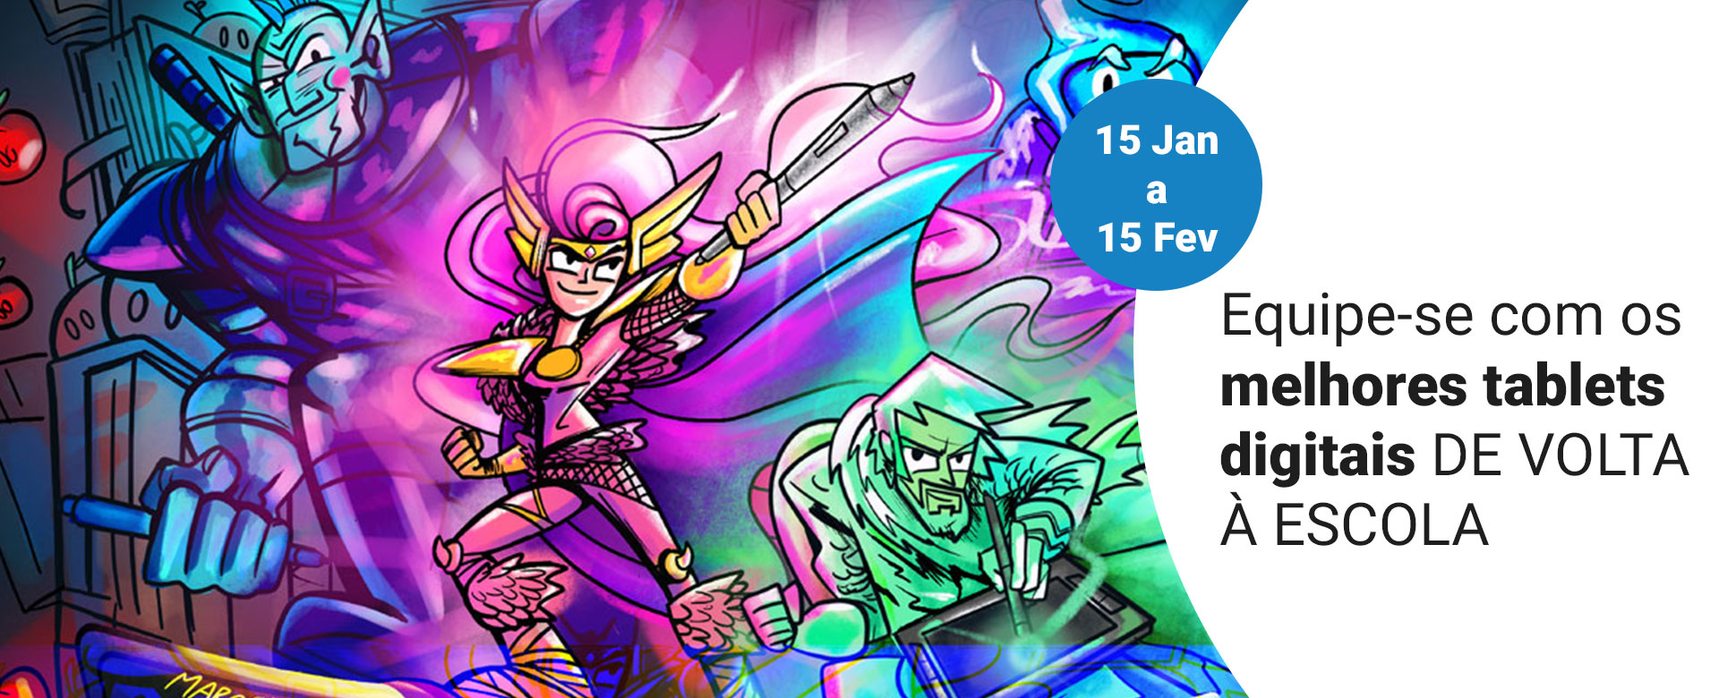
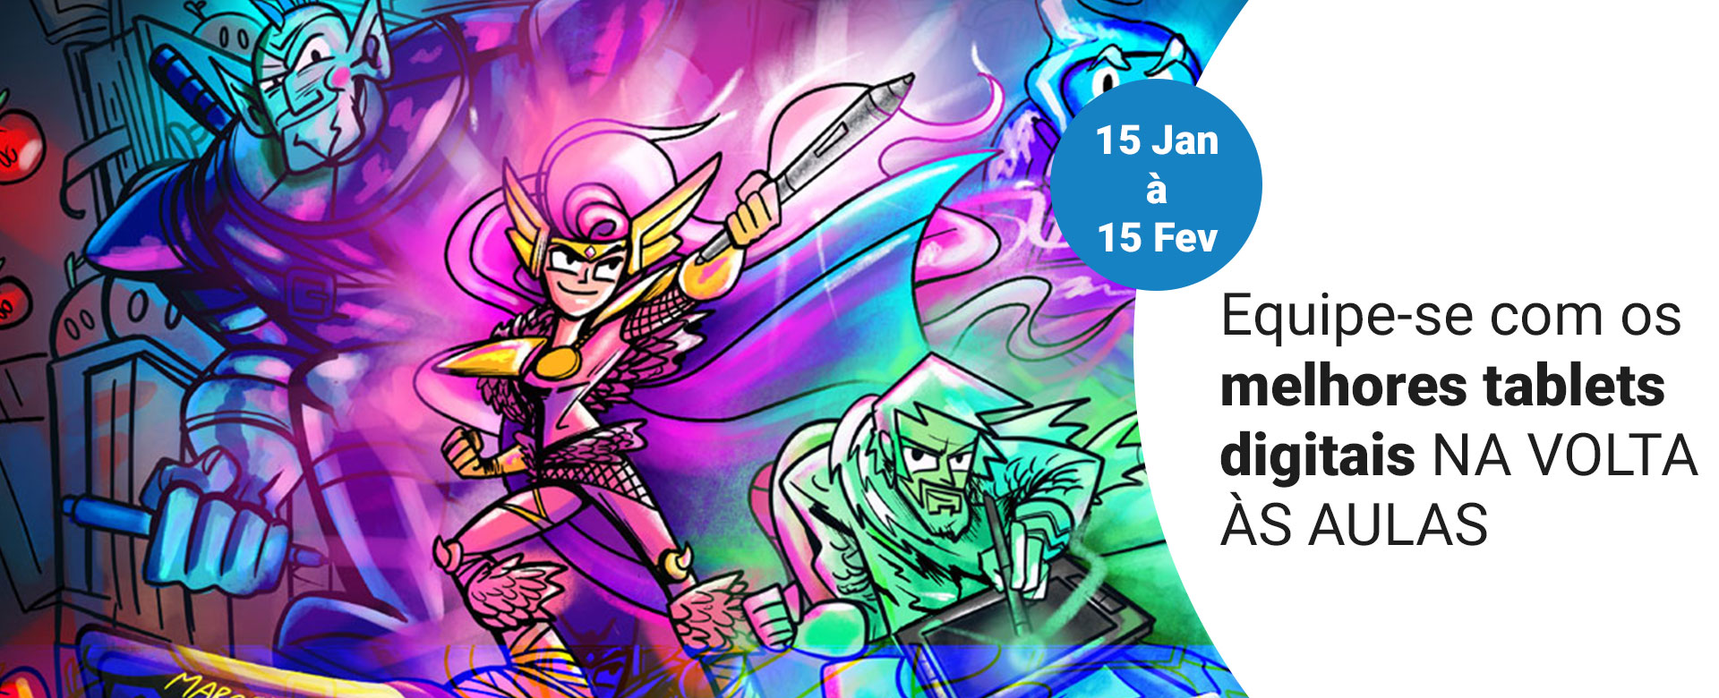
Cambio de tienda colombia
Correciones de lenguaje brasil y videos ajustados

Changed region(s): [[0.7188, 0.7077, 0.875, 0.8], [0.8125, 0.6154, 1.0, 0.6769]]

diff --git a/brasil-back-to-school.html b/brasil-back-to-school.html
@@ -285,7 +285,7 @@
                                             <img src="img/wacom-intuos-pro.png" style="max-width: 100%;" />
                                             <h3></h3>
                                             <h3>
-                                            Projetada para maximizar os recursos da incrível Wacom Pro Pen 2. Com recursos de conectividade Bluetooth integrados e um novo design elegante, se configura com facilidade. Ele permite que você ganhe precisão e controle, agilize o seu fluxo de trabalho e aproveite todas as capacidades do seu software criativo favorito graças às inovações integradas no novo Intuos Pro.
+                                            Projetada para maximizar os recursos da incrível Wacom Pro Pen 2. Com recursos de conectividade Bluetooth integrados e um novo design elegante, e fácil de configurar. Ela permite que você ganhe precisão e controle, agilize o seu fluxo de trabalho e aproveite todas as capacidades do seu software criativo favorito graças às inovações integradas na nova Intuos Pro.
                                             </h3>
                                             <h3><a class="link" href="https://www.wacom.com/es-es/products/pen-tablets/wacom-intuos-pro" target="_blank">Explore Wacom Intuos Pro <img src="img/arrow-n.png"></a></h3>
                                             <span style="font-size:26px;">
@@ -341,7 +341,7 @@
                                             <img src="img/wacom-cintiq-pro.png" style="max-width: 100%;" />
                                             <h3></h3>
                                             <h3>
-                                            Crie diretamente na tela com a experiência mais natural que se assemelha a de um lápis. Projetada para artistas profissionais e designers que necessitam uma conexão direta e intuitiva da caneta para a tela. Independente se você trabalha no Mac ou PC, a Wacom Cintiq Pro oferece a mais avançada experiência interativa via monitor.
+                                            Crie diretamente na tela com a experiência mais natural que se assemelha a de um lápis. Projetada para artistas profissionais e designers que necessitam de uma conexão direta e intuitiva da caneta para a tela. Independente se você trabalha no Mac ou PC, a Wacom Cintiq Pro oferece a mais avançada experiência interativa via monitor.
                                             </h3>
                                             <h3><a class="link" href="https://www.wacom.com/es-es/products/pen-tablets/wacom-intuos" target="_blank">Explore Cintiq Pro <img src="img/arrow-n.png"></a></h3>
                                             <span style="font-size:26px;">
@@ -379,7 +379,7 @@
                                         </div>
                                         <div class="col-lg-5 col-sm-8 col-xs-12 left mb-sm" style="margin-top: 30px;">
                                             <div class="col-lg-3 col-md-3 col-sm-12 col-lg-offset-6 col-md-offset-6 col-sm-offset-3" style="width: 120px; height: 120px; background-color: #0088cc; border-radius: 100%; padding: 20px; position: absolute; z-index:5;">
-                                                <h6 style="color:white; font-size: 17px; text-align: center; margin:auto; position: relative; padding-top: 15px;">Hasta -20% de descuento</h6>
+                                                <h6 style="color:white; font-size: 17px; text-align: center; margin:auto; position: relative; padding-top: 15px;">Descontos de até 20%</h6>
                                             </div>
                                             <img src="img/products/wacom-one.png" style="max-width: 95%;"/>
                                         </div>
@@ -402,13 +402,15 @@
                             <section id="videos">
                                 <div class="container-full" style="background-color: white;">
                                     <div class="row">
-                                        <div class="col-lg-12 col-md-12 col-sm-12 col-12">
+                                        <div class="col-lg-2 col-md-2"></div>
+                                        <div class="col-lg-8 col-md-8 col-sm-12 col-12">
                                             <div class="embed-responsive embed-responsive-16by9">
-                                                <iframe class="embed-responsive-item"  src="https://www.youtube.com/embed/KghanqRVFXA" frameborder="0" allow="accelerometer; autoplay; encrypted-media; gyroscope; picture-in-picture" allowfullscreen></iframe>
+                                                <iframe width="1072" height="480" src="https://www.youtube.com/embed/koGfcPAeeK4" frameborder="0" allow="accelerometer; autoplay; encrypted-media; gyroscope; picture-in-picture" allowfullscreen></iframe>
 
                                             </div>
                                             
                                         </div>
+                                        <div class="col-lg-2 col-md-2"></div>
                                         <!--VIDEO 2 ------------------->
                                         <!--<div class="col-lg-6 col-md-6 col-sm-6 col-6">
                                             <div class="embed-responsive embed-responsive-16by9">
@@ -452,53 +454,58 @@
                                     </div>
                                     <div class="container">
                                         <div class="row">
-                                            <div class="col-lg-2 col-md-2 col-sm-2 col-6 center tiendas" style="padding: 5%;">
+                                            <div class="col-lg-2 col-md-2 col-sm-6 col-6 center tiendas" style="padding: 5%;">
                                                 <div style="background-color: white; padding: 10%; border-radius: 100%; height: 150px; width: 150px;">
                                                     <a href="https://www.kabum.com.br/cgi-local/site/listagem/listagem.cgi?string=wacom&btnG" target="_blank">
                                                     <img src="img/logos-brasil/kabum.png" width="100" style="margin:auto; margin-top: 40%; display: flex;">
                                                     </a>
                                                 </div>
                                             </div>
-                                            <div class="col-lg-2 col-md-2 col-sm-2 col-6 center tiendas" style="padding: 5%;">
+                                            <div class="col-lg-2 col-md-2 col-sm-6 col-6 center tiendas" style="padding: 5%;">
                                                 <div style="background-color: white; padding: 10%; border-radius: 100%; height: 150px; width: 150px;">
                                                     <a href="http://www.wacomstore.com.br" target="_blank">
                                                         <img class="img-responsive" src="img/logos-brasil/wstore.jpg" width="100" style="margin:auto; margin-top: 32%; display: flex;">
                                                     </a>
                                                 </div>
                                             </div>
-                                            <div class="col-lg-2 col-md-2 col-sm-2 col-6 center tiendas" style="padding: 5%;">
+                                            <div class="col-lg-2 col-md-2 col-sm-6 col-6 center tiendas" style="padding: 5%;">
                                                 <div style="background-color: white; padding: 10%; border-radius: 100%; height: 150px; width: 150px;">
                                                     <a href="https://busca.magazineluiza.com.br/busca?q=wacom" target="_blank"><img src="img/logos-brasil/magazineluiza.png" width="120" style="margin:auto; display: flex; margin-top: 45%;"></a>
                                                 </div>
                                             </div>
-                                            <div class="col-lg-2 col-md-2 col-sm-2 col-6 center tiendas" style="padding: 5%;">
+                                            <div class="col-lg-2 col-md-2 col-sm-6 col-6 center tiendas" style="padding: 5%;">
                                                 <div style="background-color: white; padding: 7%; border-radius: 100%; height: 150px; width: 150px;">
                                                     <a href="https://www.kalunga.com.br/busca/wacom/1" target="_blank"><img class="img-responsive" src="img/logos-brasil/kalunga.jpg" width="250" style="margin:auto; display: flex; margin-top: 35%;"></a>
                                                 </div>
                                             </div>
-                                            <div class="col-lg-2 col-md-2 col-sm-2 col-6 center tiendas" style="padding: 5%;">
+                                            <div class="col-lg-2 col-md-2 col-sm-6 col-6 center tiendas" style="padding: 5%;">
                                                 <div style="background-color: white; padding: 10%; border-radius: 100%; height: 150px; width: 150px;">
                                                     <a href="https://www.shoptime.com.br/busca/wacom" target="_blank"><img class="img-responsive" src="img/logos-brasil/shoptime.svg" width="300" style="margin:auto; display: flex; margin-top: 35%;"></a>
                                                 </div>
                                             </div>
+                                            <div class="col-lg-2 col-md-2 col-sm-6 col-6 center tiendas d-sm-block d-md-none" style="padding: 5%;">
+                                                <div style="background-color: white; padding: 10%; border-radius: 100%; height: 150px; width: 150px;">
+                                                    <a href="https://search3.pontofrio.com.br/busca?q=wacom" target="_blank"><img class="img-responsive rounded" src="img/logos-brasil/pontofrio.jpg" width="150" style="margin:auto; display: flex; margin-top: 38%"></a>
+                                                </div>
+                                            </div>
                                         </div>
                                         <div class="row">
-                                            <div class="col-lg-2 col-md-2 col-sm-2 col-6 center tiendas" style="padding: 5%;">
+                                            <div class="col-lg-2 col-md-2 col-sm-6 col-6 center tiendas" style="padding: 5%;">
                                                 <div style="background-color: white; padding: 10%; border-radius: 100%; height: 150px; width: 150px;">
                                                     <a href="https://www.submarino.com.br/busca/wacom" target="_blank"><img class="img-responsive" src="img/logos-brasil/submarino.png" width="120" style="margin:auto; display: flex; margin-top: 32%;"></a>
                                                 </div>
                                             </div>
-                                            <div class="col-lg-2 col-md-2 col-sm-2 col-6 center tiendas" style="padding: 5%;">
+                                            <div class="col-lg-2 col-md-2 col-sm-6 col-6 center tiendas" style="padding: 5%;">
                                                 <div style="background-color: white; padding: 10%; border-radius: 100%; height: 150px; width: 150px;">
                                                     <a href="https://www.americanas.com.br/busca/wacom" target="_blank"><img class="img-responsive" src="img/logos-brasil/americanas.png" width="250" style="margin:auto; display: flex; margin-top: 32%;"></a>
                                                 </div>
                                             </div>
-                                            <div class="col-lg-2 col-md-2 col-sm-2 col-6 center tiendas" style="padding: 5%;">
+                                            <div class="col-lg-2 col-md-2 col-sm-6 col-6 center tiendas" style="padding: 5%;">
                                                 <div style="background-color: white; padding: 10%; border-radius: 100%; height: 150px; width: 150px;">
                                                     <a href="https://buscas2.casasbahia.com.br/busca?q=wacom" target="_blank"><img class="img-responsive" src="img/logos-brasil/casasbahia.jpg" width="250" style="margin:auto; display: flex; margin-top: 32%;"></a>
                                                 </div>
                                             </div>
-                                            <div class="col-lg-2 col-md-2 col-sm-2 col-6 center tiendas" style="padding: 5%;">
+                                            <div class="col-lg-2 col-md-2 col-sm-6 col-6 center tiendas d-none d-sm-block" style="padding: 5%;">
                                                 <div style="background-color: white; padding: 10%; border-radius: 100%; height: 150px; width: 150px;">
                                                     <a href="https://search3.pontofrio.com.br/busca?q=wacom" target="_blank"><img class="img-responsive rounded" src="img/logos-brasil/pontofrio.jpg" width="150" style="margin:auto; display: flex; margin-top: 38%"></a>
                                                 </div>

diff --git a/argentina-back-to-school.html b/argentina-back-to-school.html
@@ -329,14 +329,16 @@
                     </a>
                 </div>
                 <section id="video">
-                    <div class="container-full" style="background-color: white;">
+                    <div class="container-full" style="background-color: white; margin: auto;">
                                     <div class="row">
-                                        <div class="col-lg-12 col-md-12 sol-sm-12 col-12">
+                                        <div class="col-lg-2 col-md-2"></div>
+                                        <div class="col-lg-8 col-md-8 sol-sm-12 col-12">
                                             <div class="embed-responsive embed-responsive-16by9">
-                                                <iframe class="embed-responsive-item"  src="https://www.youtube.com/embed/KghanqRVFXA" frameborder="0" allow="accelerometer; autoplay; encrypted-media; gyroscope; picture-in-picture" allowfullscreen></iframe>
+                                                <iframe class="embed-responsive-item"  src="https://www.youtube.com/embed/KghanqRVFXA" frameborder="0" allow="accelerometer; autoplay; encrypted-media; gyroscope; picture-in-picture" allowfullscreen style="margin: auto;"></iframe>
                                             </div>
                                             
                                         </div>
+                                        <div class="col-lg-2 col-md-2"></div>
                                     </div>
                                 </div>
                     
@@ -375,53 +377,58 @@
                                     </div>
                                     <div class="container">
                                         <div class="row">
-                                            <div class="col-lg-2 col-md-2 col-sm-2 col-6 center tiendas" style="padding: 5%;">
+                                            <div class="col-lg-2 col-md-2 col-sm-6 col-6 center tiendas" style="padding: 5%;">
                                                 <div style="background-color: white; padding: 10%; border-radius: 100%; height: 150px; width: 150px;">
                                                     <a href="http://www.datasoft.com.ar" target="_blank">
                                                     <img src="img/logos-argentina/logos-03.png" width="100" style="margin:auto; margin-top: 40%; display: flex;">
                                                     </a>
                                                 </div>
                                             </div>
-                                            <div class="col-lg-2 col-md-2 col-sm-2 col-6 center tiendas" style="padding: 5%;">
+                                            <div class="col-lg-2 col-md-2 col-sm-6 col-6 center tiendas" style="padding: 5%;">
                                                 <div style="background-color: white; padding: 10%; border-radius: 100%; height: 150px; width: 150px;">
                                                     <a href="https://www.tresmares.com.ar/" target="_blank">
                                                         <img class="img-responsive" src="img/logos-argentina/logos-04.jpg" width="100" style="margin:auto; margin-top: 27%; display: flex;">
                                                     </a>
                                                 </div>
                                             </div>
-                                            <div class="col-lg-2 col-md-2 col-sm-2 col-6 center tiendas" style="padding: 5%;">
+                                            <div class="col-lg-2 col-md-2 col-sm-6 col-6 center tiendas" style="padding: 5%;">
                                                 <div style="background-color: white; padding: 10%; border-radius: 100%; height: 150px; width: 150px;">
                                                     <a href="https://www.integradosargentinos.com/product-listing.php?criterio=pd.nombre&search=wacom" target="_blank"><img src="img/logos-argentina/logos-05.png" width="100" style="margin:auto; display: flex; margin-top: 40%;"></a>
                                                 </div>
                                             </div>
-                                            <div class="col-lg-2 col-md-2 col-sm-2 col-6 center tiendas" style="padding: 5%;">
+                                            <div class="col-lg-2 col-md-2 col-sm-6 col-6 center tiendas" style="padding: 5%;">
                                                 <div style="background-color: white; padding: 7%; border-radius: 100%; height: 150px; width: 150px;">
                                                     <a href="https://store.mexx.com.ar/" target="_blank"><img class="img-responsive" src="img/logos-argentina/mexx.png" width="250" style="margin:auto; display: flex; margin-top: 30%;"></a>
                                                 </div>
                                             </div>
-                                            <div class="col-lg-2 col-md-2 col-sm-2 col-6 center tiendas" style="padding: 5%;">
+                                            <div class="col-lg-2 col-md-2 col-sm-6 col-6 center tiendas" style="padding: 5%;">
                                                 <div style="background-color: white; padding: 10%; border-radius: 100%; height: 150px; width: 150px;">
                                                     <a href="https://libreriapeluffo.com.ar/productos/12321242/insumos-hard/tabletas-digitalizadoras" target="_blank"><img class="img-responsive" src="img/logos-argentina/peluffo.png" width="300" style="margin:auto; display: flex; margin-top: 35%;"></a>
                                                 </div>
                                             </div>
+                                            <div class="col-lg-2 col-md-2 col-sm-6 col-6 center tiendas d-sm-block d-md-none" style="padding: 5%;">
+                                                <div style="background-color: white; padding: 10%; border-radius: 100%; height: 150px; width: 150px;">
+                                                    <a href="https://www.polytech.com.ar/" target="_blank"><img class="img-responsive rounded" src="img/logos-argentina/polytech.png" width="150" style="margin:auto; display: flex;"></a>
+                                                </div>
+                                            </div>
                                         </div>
                                         <div class="row">
-                                            <div class="col-lg-2 col-md-2 col-sm-2 col-6 center tiendas" style="padding: 5%;">
+                                            <div class="col-lg-2 col-md-2 col-sm-6 col-6 center tiendas" style="padding: 5%;">
                                                 <div style="background-color: white; padding: 10%; border-radius: 100%; height: 150px; width: 150px;">
                                                     <a href="http://planetazenok.com/buscar/wacom/" target="_blank"><img class="img-responsive" src="img/logos-argentina/zenok.png" width="300" style="margin:auto; display: flex; margin-top: 38%;"></a>
                                                 </div>
                                             </div>
-                                            <div class="col-lg-2 col-md-2 col-sm-2 col-6 center tiendas" style="padding: 5%;">
+                                            <div class="col-lg-2 col-md-2 col-sm-6 col-6 center tiendas" style="padding: 5%;">
                                                 <div style="background-color: white; padding: 10%; border-radius: 100%; height: 150px; width: 150px;">
                                                     <a href="https://www.compumundo.com.ar/q/wacom/srch?q=wacom" target="_blank"><img class="img-responsive" src="img/logos-argentina/compumundo.png" width="250" style="margin:auto; display: flex; margin-top: 32%;"></a>
                                                 </div>
                                             </div>
-                                            <div class="col-lg-2 col-md-2 col-sm-2 col-6 center tiendas" style="padding: 5%;">
+                                            <div class="col-lg-2 col-md-2 col-sm-6 col-6 center tiendas" style="padding: 5%;">
                                                 <div style="background-color: white; padding: 10%; border-radius: 100%; height: 150px; width: 150px;">
                                                     <a href="https://www.fcstore.com.ar/index.php?buscador=wacom" target="_blank"><img class="img-responsive" src="img/logos-argentina/logos-02.png" width="250" style="margin:auto; display: flex; margin-top: 32%;"></a>
                                                 </div>
                                             </div>
-                                            <div class="col-lg-2 col-md-2 col-sm-2 col-6 center tiendas" style="padding: 5%;">
+                                            <div class="col-lg-2 col-md-2 col-sm-6 col-6 center tiendas d-none d-sm-block" style="padding: 5%;">
                                                 <div style="background-color: white; padding: 10%; border-radius: 100%; height: 150px; width: 150px;">
                                                     <a href="https://www.polytech.com.ar/" target="_blank"><img class="img-responsive rounded" src="img/logos-argentina/polytech.png" width="150" style="margin:auto; display: flex;"></a>
                                                 </div>

diff --git a/peru-back-to-school.html b/peru-back-to-school.html
@@ -331,12 +331,14 @@
                 <section id="videos">
                     <div class="container-full" style="background-color: white;">
                                     <div class="row">
-                                        <div class="col-lg-12 col-md-12 sol-sm-12 col-12">
+                                        <div class="col-lg-2 col-md-2"></div>
+                                        <div class="col-lg-8 col-md-8 sol-sm-12 col-12">
                                             <div class="embed-responsive embed-responsive-16by9">
                                                 <iframe class="embed-responsive-item"  src="https://www.youtube.com/embed/KghanqRVFXA" frameborder="0" allow="accelerometer; autoplay; encrypted-media; gyroscope; picture-in-picture" allowfullscreen></iframe>
                                             </div>
                                             
                                         </div>
+                                        <div class="col-lg-2 col-md-2"></div>
                                     </div>
                                 </div>
                 </section>
@@ -389,7 +391,11 @@
                                                     <a href="https://www.ishopperu.com.pe" target="_blank"><img class="img-responsive" src="img/logos-peru/ishop.jpg" width="120" style="margin:auto; display: flex; margin-top: 31%"></a>
                                                 </div>
                                             </div>
-                                            
+                                            <div class="col-lg-2 col-md-2 col-sm-2 col-6 center tiendas d-sm-block d-md-none" style="padding: 5%;">
+                                                <div style="background-color: white; padding: 10%; border-radius: 100%; height: 150px; width: 150px;">
+                                                    <a href="http://www.compuusaperu.com/default_on.asp" target="_blank"><img class="img-responsive" src="img/logos-peru/compusa.jpg" width="150" style="margin:auto; display: flex; margin-top: 42%;"></a>
+                                                </div>
+                                            </div>
                                         </div>
                                         <div class="row">
                                             <div class="col-lg-2 col-md-2 col-sm-2 col-6 center tiendas" style="padding: 5%;">
@@ -402,7 +408,7 @@
                                                     <a href="https://www.tailoy.com.pe/wacom-tableta-digital-intuos-draw-small.html" target="_blank"><img class="img-responsive" src="img/logos-peru/tailoy.png" width="100" style="margin:auto; display: flex; margin-top: 18%;"></a>
                                                 </div>
                                             </div>
-                                            <div class="col-lg-2 col-md-2 col-sm-2 col-6 center tiendas" style="padding: 5%;">
+                                            <div class="col-lg-2 col-md-2 col-sm-2 col-6 center tiendas d-none d-sm-block" style="padding: 5%;">
                                                 <div style="background-color: white; padding: 10%; border-radius: 100%; height: 150px; width: 150px;">
                                                     <a href="http://www.compuusaperu.com/default_on.asp" target="_blank"><img class="img-responsive" src="img/logos-peru/compusa.jpg" width="150" style="margin:auto; display: flex; margin-top: 42%;"></a>
                                                 </div>

diff --git a/colombia-back-to-school.html b/colombia-back-to-school.html
@@ -331,12 +331,14 @@
                 <section id="videos">
                                 <div class="container-full" style="background-color: white;">
                                     <div class="row">
-                                        <div class="col-lg-12 col-md-12 sol-sm-12 col-12">
+                                        <div class="col-lg-2 col-md-2"></div>
+                                        <div class="col-lg-8 col-md-8 sol-sm-12 col-12">
                                             <div class="embed-responsive embed-responsive-16by9">
                                                 <iframe class="embed-responsive-item"  src="https://www.youtube.com/embed/KghanqRVFXA" frameborder="0" allow="accelerometer; autoplay; encrypted-media; gyroscope; picture-in-picture" allowfullscreen></iframe>
                                             </div>
                                             
                                         </div>
+                                        <div class="col-lg-2 col-md-2"></div>
                                     </div>
                                 </div>
                 </section>
@@ -412,6 +414,12 @@
                                                     <a href="https://www.capitalcolombia.com/articulo/wacom_colombia" target="_blank"><img class="img-responsive" src="img/logos-col/capitalcol.jpg" width="100" style="margin:auto; display: flex; margin-top: 12%;"></a>
                                                 </div>
                                             </div>
+                                            <div class="col-lg-2 col-md-2 col-sm-2 col-6 center tiendas" style="padding: 5%;">
+                                                <div style="background-color: white; padding: 10%; border-radius: 100%; height: 150px; width: 150px;">
+                                                    <a href="https://www.apcomputadores.com/shop" target="_blank"><img class="img-responsive" src="img/logos-col/ap.png" width="100" style="margin:auto; display: flex; margin-top: 20%;"></a>
+                                                </div>
+                                            </div>
+
                                         </div>
                                         <!--- //row --->
                                     </div>

diff --git a/chile-back-to-school.html b/chile-back-to-school.html
@@ -287,16 +287,6 @@
                                         </div>
                                     </div>
                                 </div>
-                                <div class="container-full" style="background-color: white;">
-                                    <div class="row">
-                                        <div class="col-lg-12 col-md-12 sol-sm-12 col-12">
-                                            <div class="embed-responsive embed-responsive-16by9">
-                                                <iframe class="embed-responsive-item"  src="https://www.youtube.com/embed/hD2o9wpx7CY" frameborder="0" allow="accelerometer; autoplay; encrypted-media; gyroscope; picture-in-picture" allowfullscreen></iframe>
-                                            </div>
-                                            
-                                        </div>
-                                    </div>
-                                </div>
                             </section>
                             <!--Fin: Ficha Intuos Pro-->
                         </div>
@@ -342,12 +332,14 @@
                 <section id="videos">
                     <div class="container-full" style="background-color: white;">
                                     <div class="row">
-                                        <div class="col-lg-12 col-md-12 sol-sm-12 col-12">
+                                        <div class="col-lg-2 col-md-2"></div>
+                                        <div class="col-lg-8 col-md-8 sol-sm-12 col-12">
                                             <div class="embed-responsive embed-responsive-16by9">
                                                 <iframe class="embed-responsive-item"  src="https://www.youtube.com/embed/KghanqRVFXA" frameborder="0" allow="accelerometer; autoplay; encrypted-media; gyroscope; picture-in-picture" allowfullscreen></iframe>
                                             </div>
                                             
                                         </div>
+                                        <div class="col-lg-2 col-md-2"></div>
                                     </div>
                                 </div>
                     
